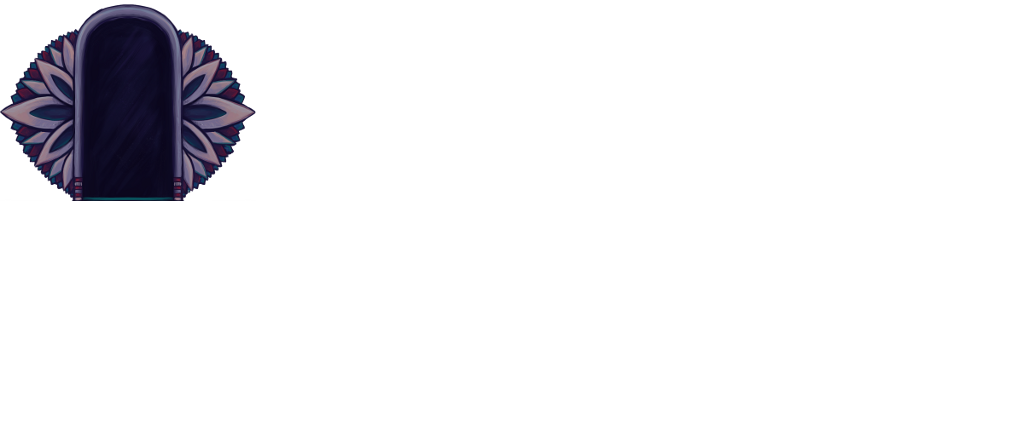
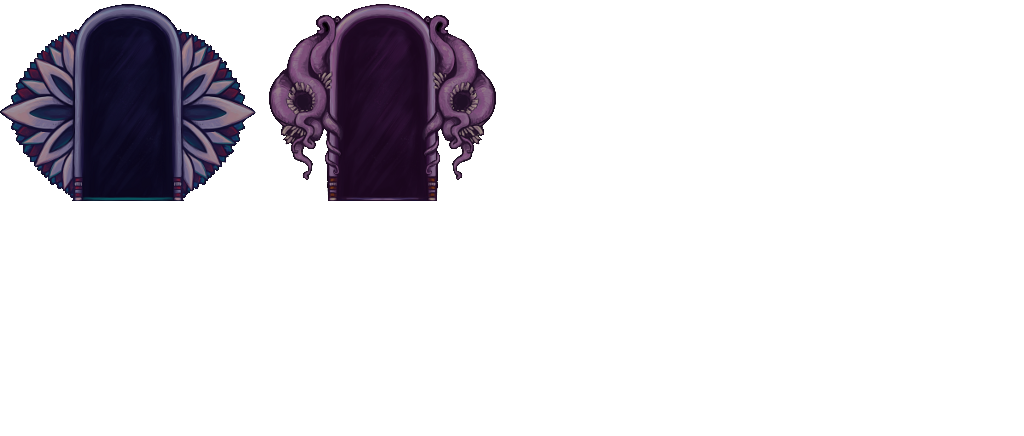
Image for pink portal added, deadly tiles improved

Changed region(s): [[0.25, 0.0, 0.5, 0.4771]]

diff --git a/src/gameworld.py b/src/gameworld.py
@@ -379,7 +379,10 @@ class GameWorld(object):
                 # Calculate right position
                 x_pos, y_pos = x_pos*64, y_pos*64
                 collider = components.Collider(x*64+96, y*64+74, 64, 64)
-                temp = pygame.image.load(os.path.join('data', 'portal.png'))
+                if tile_properties["setting"] == "pink":
+                    temp = pygame.image.load(os.path.join('data', 'portal_pink.png'))
+                else:
+                    temp = pygame.image.load(os.path.join('data', 'portal.png'))
                 portal_sprite = components.Appearance(temp.convert_alpha(), 256, 197, [8], [80])
                 portal_sprite.rect.center = collider.center
                 portal = collectible.Portal(self, self.event_manager, x_pos, y_pos)

diff --git a/src/game.py b/src/game.py
@@ -57,8 +57,8 @@ if __name__ == "__main__":
     pygame.font.init()
     pygame.display.set_caption('Chaos Projectile')
     pygame.mouse.set_visible(False)
-    #screen = pygame.display.set_mode((800, 600), pygame.RESIZABLE)
-    screen = pygame.display.set_mode((800, 600), pygame.NOFRAME | pygame.FULLSCREEN | pygame.HWSURFACE)
+    screen = pygame.display.set_mode((800, 600), pygame.RESIZABLE)
+    #screen = pygame.display.set_mode((800, 600), pygame.NOFRAME | pygame.FULLSCREEN | pygame.HWSURFACE)
 
     #Create event manager
     evManager = events.EventManager()
